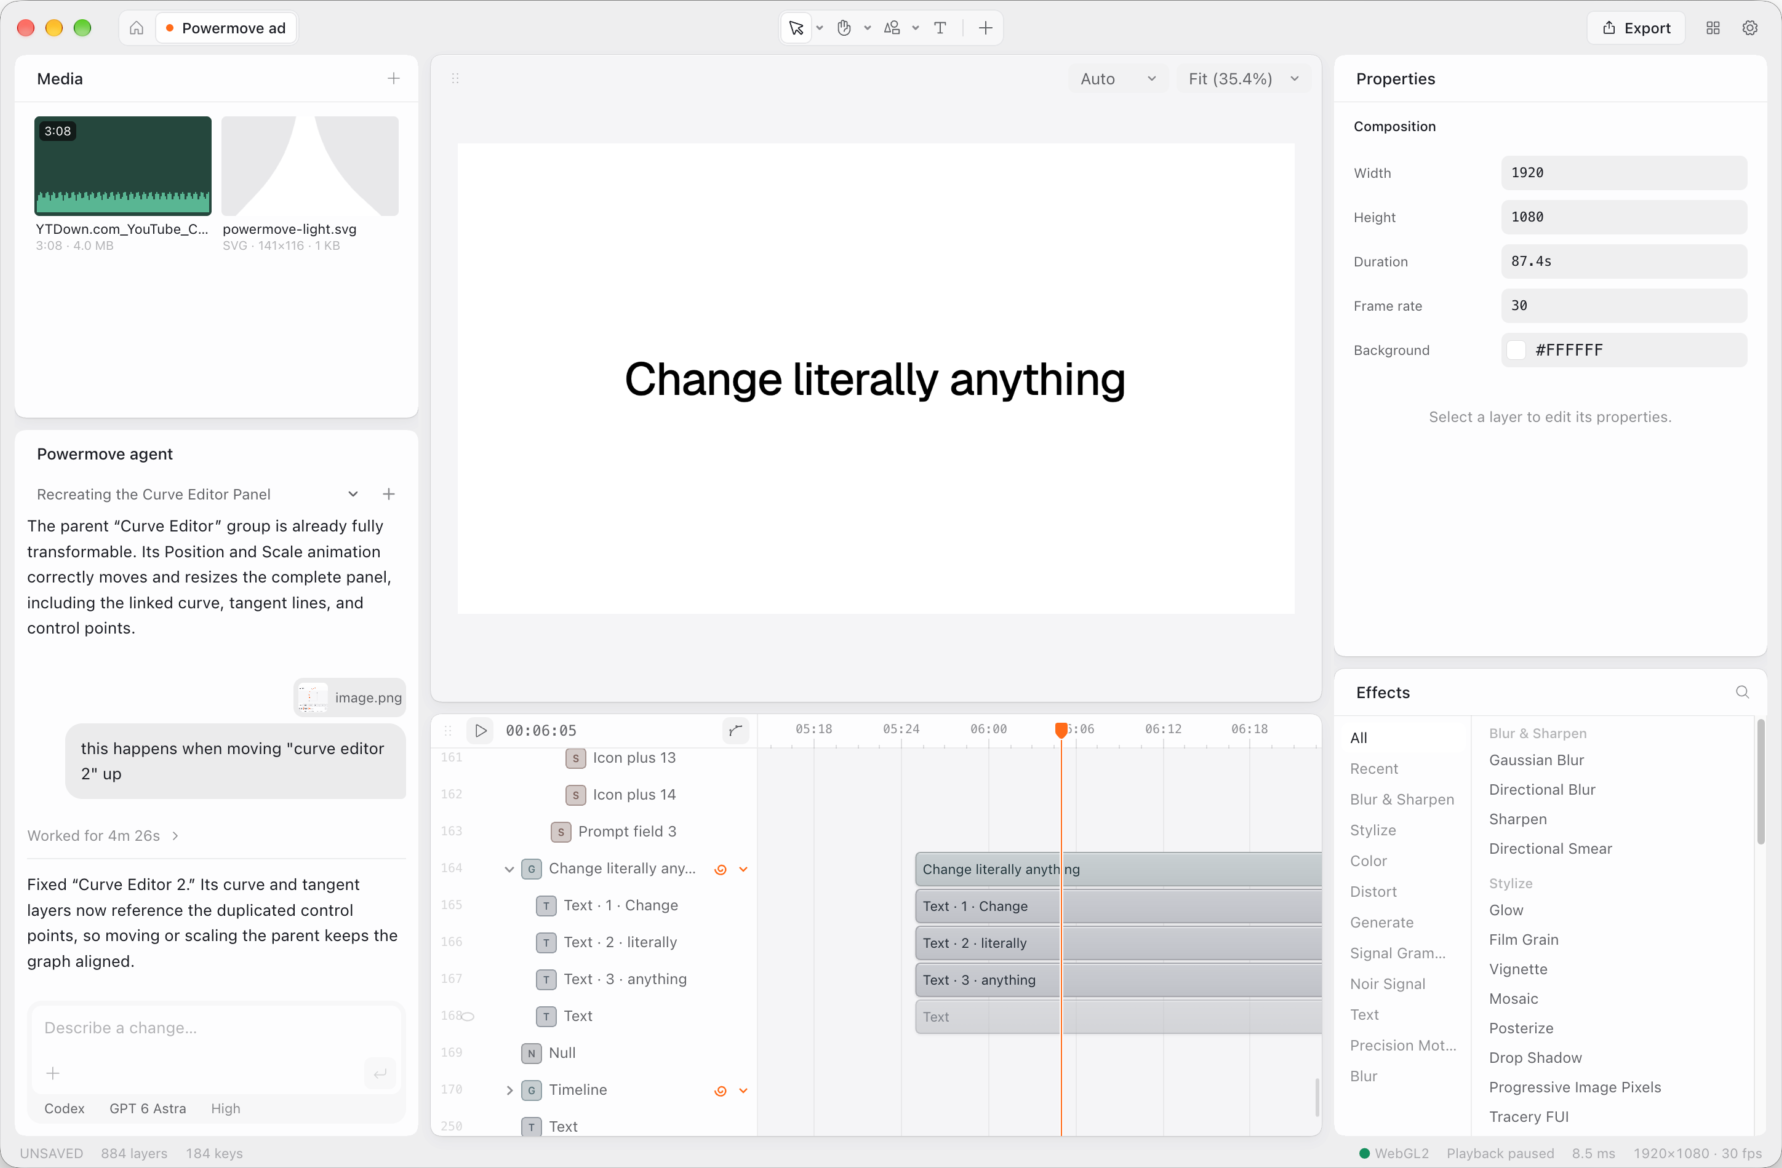
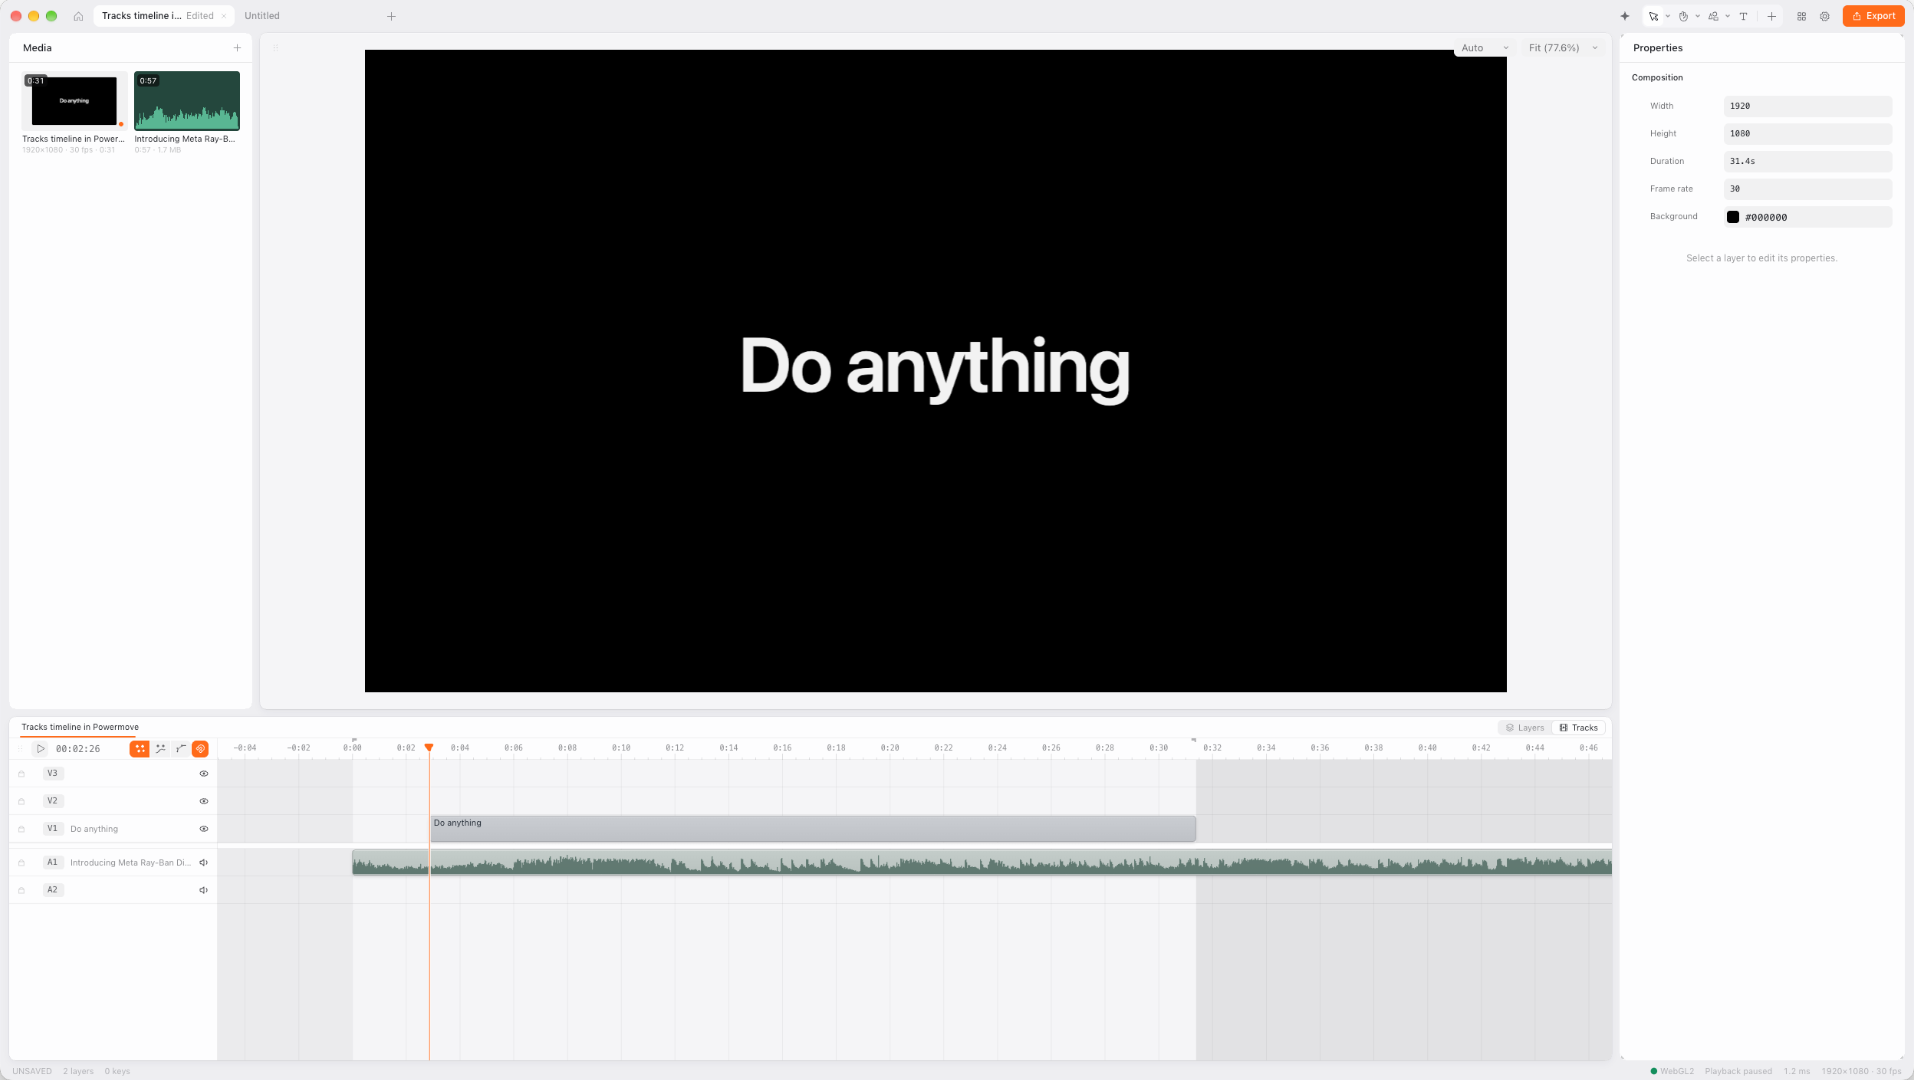
Show the Tracks timeline screenshot on the website stage
Replace the stage screenshot with the current editor showing the Tracks
timeline, and match the stage corner radius to the new image width.

diff --git a/apps/www/src/app.css b/apps/www/src/app.css
@@ -106,7 +106,7 @@ main{overflow:clip}
 .stage-window{max-width:var(--col);margin:clamp(64px,9vh,96px) auto 0;padding-inline:24px;container-type:inline-size}
 @media(max-width:640px){.stage-window{padding-inline:12px}}
 /* Keep the image and its shadow in one stable layer while mobile browsers scroll. */
-.stage-window img{width:100%;height:auto;border-radius:calc(100cqw * 18 / 1782);transform:translateZ(0);backface-visibility:hidden;box-shadow:0 0 0 1px rgb(0 0 0 / .35),0 40px 80px -24px rgb(40 10 0 / .55),0 0 140px -30px rgb(255 107 26 / .45)}
+.stage-window img{width:100%;height:auto;border-radius:calc(100cqw * 18 / 1914);transform:translateZ(0);backface-visibility:hidden;box-shadow:0 0 0 1px rgb(0 0 0 / .35),0 40px 80px -24px rgb(40 10 0 / .55),0 0 140px -30px rgb(255 107 26 / .45)}
 .pill-count{opacity:.6;font-weight:400}
 
 /* ---- rows: copy beside each product graphic, on paper ---- */

diff --git a/apps/www/src/routes/+page.svelte b/apps/www/src/routes/+page.svelte
@@ -51,7 +51,7 @@
       <Hero />
     </section>
     <figure class="stage-window">
-      <img src="/editor-hero.png" alt="The Powermove editor in its dark theme, with media, the agent panel, canvas, timeline, properties, and effects." width="1920" height="1280" fetchpriority="high" />
+      <img src="/editor-window.png" alt="The Powermove editor with media, the canvas, a Tracks timeline with video and audio clips, and properties." width="1914" height="1080" fetchpriority="high" />
     </figure>
   </div>
 
